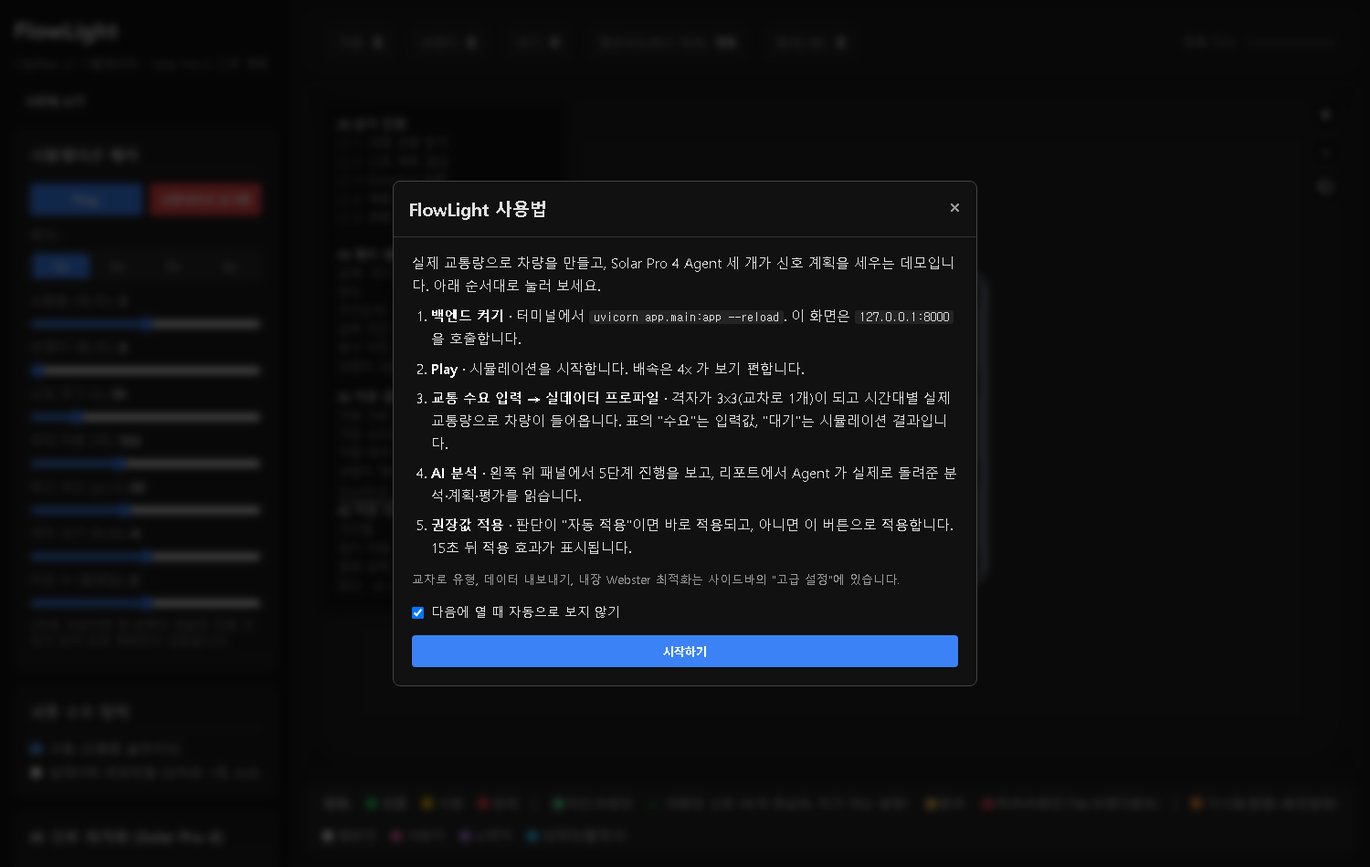
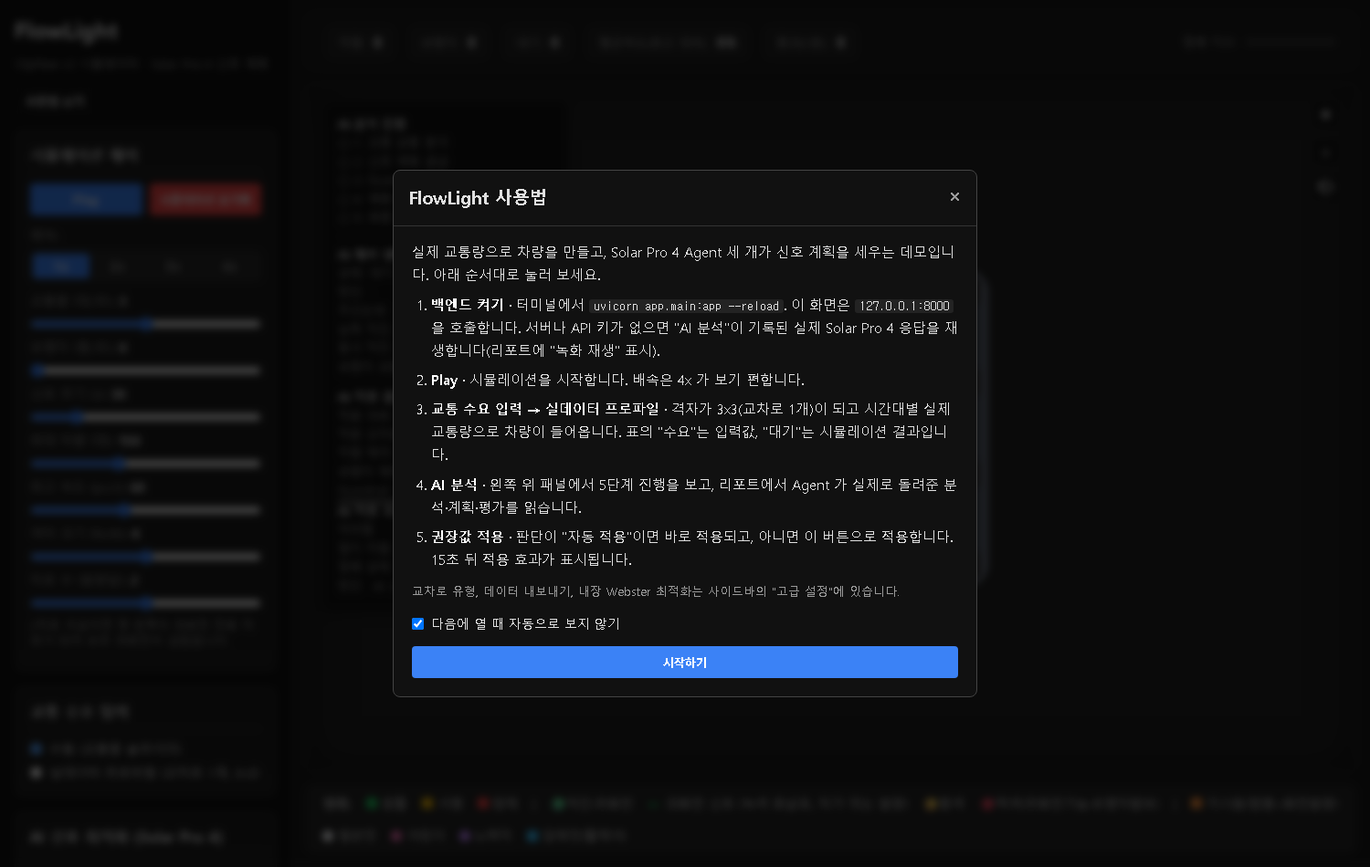
시간대 변경 시 AI 자동 재분석, 문서 문장 정리
시뮬레이터
- "시간대가 바뀌면 AI 재분석" 체크박스 (기본 꺼짐). 실데이터 프로파일의 시간대가 바뀌고
  20초 뒤 AI 분석을 한 번 다시 부른다. 실제 교차로의 시간대별 신호 계획과 같은 방식.
- 분석이 진행 중이면 겹쳐 부르지 않는다 (aiBusy).
- 자동 호출은 리포트 창과 적용 알림을 띄우지 않고, 서버가 없으면 녹화 재생 없이 건너뛴다.
- 다시 적용하면 이전 효과 측정 타이머를 멈춘다.
- tests/test_hourly_reanalysis.py (239 passed, 1 skipped).
- 실제 호출 2회로 확인: 08시 → 03시 → 08시, 두 번 모두 14/16/0 자동 적용, 창·알림 없음.
  03시로 바꾼 직후 20초는 이전 시간대 차량이 남아 같은 계획이 나왔고, 문서에 그대로 적었다.

문서
- README ko/en: 재분석 기능, LLM 을 부르는 시점, 검증 기록, 한계, 향후 계획 갱신.
- 반복되는 상투 문장과 굵은 결론 문장 정리, Lessons Learned 다시 씀, 영문·숫자 뒤 조사 붙임.
- 수요 입력 패널 캡처 갱신 (새 체크박스).

diff --git a/app/index.html b/app/index.html
@@ -282,6 +282,10 @@ input[type="range"]:disabled { opacity: 0.35; }
                     <label class="toggle-label mt-2">
                         <input type="checkbox" id="chk-demand-autohour"> <span>시간대 자동 진행 (<span id="val-demand-secs">120</span>초마다)</span>
                     </label>
+                    <label class="toggle-label mt-2">
+                        <input type="checkbox" id="chk-hour-reanalyze"> <span>시간대가 바뀌면 AI 재분석</span>
+                    </label>
+                    <div class="hint">실제 교차로가 출근·낮·퇴근 시간대별 계획을 쓰듯, 시간대가 바뀌고 20초 뒤 AI 분석을 한 번 다시 부릅니다. 켜면 Solar 호출이 시간대마다 1번 늘어납니다.</div>
                     <div class="slider-group mt-2">
                         <label>혼잡 배율 (데모용): ×<span id="val-demand-scale">1</span></label>
                         <input type="range" id="sim-demand-scale" min="1" max="5" step="1" value="1">
@@ -2393,6 +2397,11 @@ function SimController() {
     this.approachEdges = null;    // {N:[edge], S:[edge], E:[edge], W:[edge]}
     this.demandSpawn = {};        // 접근로별 발생률·다음 도착 시각·진입/손실 카운터
     this.autoHour = false;
+    // 시간대가 바뀌면 AI 재분석 (기본 꺼짐). 새 수요가 도로에 반영되도록 바뀐 뒤 reanalyzeSettle 초 기다렸다가 한 번 부른다.
+    this.autoReanalyze = false;
+    this.reanalyzeSettle = 20;
+    this.reanalyzeAt = null;
+    this.aiBusy = false;
     this.demoScale = 1;           // 실데이터 모드 혼잡 배율 (데모용). 방향별 비율은 데이터 그대로, 크기만 곱한다.
     this.secsPerHour = 120;       // 시간대 자동 진행 시 시간대 하나가 지속되는 시뮬레이션 초
     this.hourAcc = 0;
@@ -2518,6 +2527,8 @@ SimController.prototype._initDOM = function() {
         self.hourAcc = 0;
     };
     autoHourChk.onchange = function() { self.autoHour = autoHourChk.checked; self.hourAcc = 0; };
+    var reanalyzeChk = document.getElementById('chk-hour-reanalyze');
+    reanalyzeChk.onchange = function() { self.autoReanalyze = reanalyzeChk.checked; self.reanalyzeAt = null; };
     var scaleSlider = document.getElementById('sim-demand-scale');
     scaleSlider.oninput = function() {
         self.demoScale = parseInt(scaleSlider.value, 10) || 1;
@@ -2636,10 +2647,23 @@ SimController.prototype._initDOM = function() {
     }
     function yesNo(v) { return v === true ? '있음' : v === false ? '없음' : String(v); }
 
-    btnOpt.onclick = async function() {
+    // opts.auto: 시간대 변경에 따른 자동 재분석. 리포트 창과 적용 알림을 띄우지 않고, 서버가 없으면 녹화 재생 없이 건너뛴다.
+    async function runAIAnalysis(opts) {
+        opts = opts || {};
+        if (self.aiBusy) return;   // 분석이 진행 중이면 새 요청을 겹치지 않는다
+        if (opts.auto && document.getElementById('chk-replay') && document.getElementById('chk-replay').checked) return;
+        self.aiBusy = true;
+        try { await analyzeOnce(opts); } finally { self.aiBusy = false; }
+    }
+    self.runAIAnalysis = runAIAnalysis;
+    btnOpt.onclick = function() { runAIAnalysis(); };
+
+    async function analyzeOnce(opts) {
         var lt = document.getElementById('log-text');
         lt.textContent = 'AI 에이전트 분석을 시작합니다...\n\n';
-        document.getElementById('log-overlay').classList.remove('hidden');
+        if (opts.reason) lt.textContent += '[자동 재분석] ' + opts.reason + '\n\n';
+        if (!opts.auto) document.getElementById('log-overlay').classList.remove('hidden');
+        self.quietApply = !!opts.auto;
 
         // 진행 표시 초기화. 단계별 소요 시간은 SSE 메시지 도착 시각 기준이다.
         resetAISteps();
@@ -2788,7 +2812,7 @@ SimController.prototype._initDOM = function() {
                     });
                 } catch (netErr) {
                     // 서버가 없을 때: 녹화가 있으면 재생으로 넘어가고, 없으면 예전처럼 연결 실패로 처리한다.
-                    if (!replayRec) throw netErr;
+                    if (!replayRec || opts.auto) throw netErr;   // 자동 재분석은 녹화를 반복 재생하지 않는다
                     lt.textContent += "[안내] FastAPI 서버에 연결할 수 없어 녹화된 응답을 재생합니다.\n";
                 }
             }
@@ -3001,9 +3025,13 @@ SimController.prototype._initDOM = function() {
             document.getElementById('ai-state').textContent = "서버 연결 실패";
             lt.textContent += "\n[오류] FastAPI 서버 연결 실패\n";
             lt.textContent += err.message;
-            if (!window.FLOWLIGHT_REPLAY) lt.textContent += "\n(서버 없이 보려면 app/replay_data.js 가 index.html 옆에 있어야 합니다.)";
+            if (opts.auto) {
+                document.getElementById('ai-state').textContent = "자동 재분석 건너뜀 (서버 연결 실패)";
+            } else if (!window.FLOWLIGHT_REPLAY) {
+                lt.textContent += "\n(서버 없이 보려면 app/replay_data.js 가 index.html 옆에 있어야 합니다.)";
+            }
         }
-    };
+    }
     document.getElementById('btn-close-log').onclick = function(){ document.getElementById('log-overlay').classList.add('hidden'); };
 
     // ===== 사용법 안내 (처음 열 때 한 번, 이후 "사용법 보기" 버튼) =====
@@ -3141,7 +3169,8 @@ SimController.prototype._initDOM = function() {
         var waveInfo = self._applyGreenWave();
 
         console.log("적용 교차로 수:", appliedCount);
-        alert("AI 권장안 적용 완료: " + appliedCount + "개 교차로");
+        if (!self.quietApply) alert("AI 권장안 적용 완료: " + appliedCount + "개 교차로");
+        self.quietApply = false;
 
         var banner = document.getElementById("ai-apply-banner");
         var bannerDetail = document.getElementById("ai-banner-detail");
@@ -3217,7 +3246,9 @@ SimController.prototype._initDOM = function() {
         var effectSampleCount = 0;
         var effectLastSimT = self.simTime;
 
-        var effectTimer = setInterval(function() {
+        // 다시 적용하면 이전 측정은 멈춘다 (자동 재분석으로 여러 번 적용될 때 타이머가 겹치지 않게)
+        if (self.effectTimer) clearInterval(self.effectTimer);
+        var effectTimer = self.effectTimer = setInterval(function() {
             if (self.simTime - effectLastSimT < 1) return;
             effectLastSimT += 1;
             var stoppedNow = 0;
@@ -3255,6 +3286,7 @@ SimController.prototype._initDOM = function() {
 
             if (effectSampleCount >= 15) {
                 clearInterval(effectTimer);
+                if (self.effectTimer === effectTimer) self.effectTimer = null;
 
                 var sumStopped = 0;
                 var sumCongestion = 0;
@@ -3449,6 +3481,11 @@ SimController.prototype._update = function(dt, skipUI) {
                 var hs = this.profile.available_hours;
                 this.applyProfileHour(hs[(hs.indexOf(this.profileHour) + 1) % hs.length]);
             }
+        }
+        if (!skipUI && this.autoReanalyze && this.reanalyzeAt !== null && this.simTime >= this.reanalyzeAt
+                && !this.aiBusy && this.runAIAnalysis) {
+            this.reanalyzeAt = null;
+            this.runAIAnalysis({auto: true, reason: '시간대가 ' + pad2(this.profileHour) + '시로 바뀌어 다시 분석합니다.'});
         }
     } else {
         // 수동: 네트워크 전체 발생률(슬라이더)을 누적해 무작위 진입로에 생성 (기존 방식)
@@ -3678,6 +3715,9 @@ SimController.prototype.applyProfileHour = function(hour) {
         if (this.profile.hours[i].hour === hour) { entry = this.profile.hours[i]; break; }
     }
     if (!entry) return;
+    // 시간대가 실제로 바뀌었고 자동 재분석이 켜져 있으면, 새 수요가 도로에 반영될 시간을 두고 재분석을 예약한다.
+    // 슬라이더를 끄는 동안 여러 번 바뀌어도 예약은 마지막 시각 하나만 남는다.
+    if (this.autoReanalyze && hour !== this.profileHour) this.reanalyzeAt = this.simTime + this.reanalyzeSettle;
     this.profileHour = hour;
     this.currentDemand = entry;
     for (var k = 0; k < APPROACH_KEYS.length; k++) {

diff --git a/tests/test_hourly_reanalysis.py b/tests/test_hourly_reanalysis.py
@@ -1,0 +1,39 @@
+"""
+시간대 변경 시 AI 자동 재분석의 화면 배선 검사 (브라우저 없이 index.html 을 문자열로 확인).
+
+실제 교차로가 시간대별 신호 계획을 쓰듯, 실데이터 프로파일의 시간대가 바뀌면 AI 분석을 한 번 다시 부른다.
+기본은 꺼져 있고, 켜도 분석이 겹치지 않으며, 자동 호출에서는 리포트 창·알림·녹화 재생을 쓰지 않는다.
+"""
+from pathlib import Path
+
+HTML = (Path(__file__).resolve().parent.parent / "app" / "index.html").read_text(encoding="utf-8")
+
+
+def test_checkbox_exists_and_is_off_by_default():
+    assert '<input type="checkbox" id="chk-hour-reanalyze">' in HTML
+    assert "this.autoReanalyze = false;" in HTML
+    assert "시간대가 바뀌면 AI 재분석" in HTML
+
+
+def test_hour_change_schedules_one_reanalysis_after_settle_time():
+    assert "this.reanalyzeSettle = 20;" in HTML
+    assert "if (this.autoReanalyze && hour !== this.profileHour) this.reanalyzeAt = this.simTime + this.reanalyzeSettle;" in HTML
+    # 예약 시각이 지나고 분석 중이 아닐 때만, A/B 검증(skipUI) 중에는 부르지 않는다
+    assert "if (!skipUI && this.autoReanalyze && this.reanalyzeAt !== null && this.simTime >= this.reanalyzeAt" in HTML
+    assert "this.runAIAnalysis({auto: true" in HTML
+
+
+def test_analyses_never_overlap():
+    assert "if (self.aiBusy) return;" in HTML
+    assert "try { await analyzeOnce(opts); } finally { self.aiBusy = false; }" in HTML
+
+
+def test_auto_run_is_quiet_and_does_not_replay_recordings():
+    assert "if (!opts.auto) document.getElementById('log-overlay').classList.remove('hidden');" in HTML
+    assert "if (!self.quietApply) alert(" in HTML
+    assert "if (!replayRec || opts.auto) throw netErr;" in HTML
+    assert "자동 재분석 건너뜀 (서버 연결 실패)" in HTML
+
+
+def test_reapplying_stops_the_previous_effect_timer():
+    assert "if (self.effectTimer) clearInterval(self.effectTimer);" in HTML

diff --git a/README.en.md b/README.en.md
@@ -83,10 +83,10 @@ The idea the project started from, "skip the pedestrian phase when nobody is at 
 | 🚗 Mean stopped vehicles | 26.3 | 22.5 | **22.0** | **−4.2 ± 2.2 (−16%)**, AI lower in all ten seeds |
 | ⏱ Mean wait | 15.8 s | 13.8 s | 14.0 s | −1.8 ± 2.0 s (−11%), AI shorter in seven seeds |
 
-- **Skipping the pedestrian phase when nobody is waiting clearly helps.** For throughput and stopped vehicles the interval excludes zero, and all ten seeds point the same way.
-- **Most of the gain comes from handing the pedestrian time back to vehicles.** Fixed B also beat Fixed A by +11.8 ± 5.7 in throughput and −3.7 ± 1.4 in stopped vehicles.
-- **The LLM's re-split between the two axes adds little.** AI versus Fixed B is +2.9 ± 5.4 in throughput (AI higher in seven seeds), which cannot be told apart from noise.
-- In this demo the AI reads "nobody is at the crosswalk" from the state, picks 0 s and writes down why; the Guardrail raises the value back to 6 s (10 s for vulnerable users) whenever pedestrians are present. A simple rule on pedestrian presence could make the same call, and we say so.
+- Skipping the pedestrian phase when nobody is waiting makes a clear difference. For throughput and stopped vehicles the interval excludes zero, and all ten seeds point the same way.
+- Most of that difference is the pedestrian time handed back to vehicles. Fixed B also beat Fixed A by +11.8 ± 5.7 in throughput and −3.7 ± 1.4 in stopped vehicles.
+- The LLM's re-split between the two axes adds little. AI versus Fixed B is +2.9 ± 5.4 in throughput (AI higher in seven seeds), which cannot be told apart from noise.
+- In this demo the AI reads "nobody is at the crosswalk" from the state, picks 0 s and writes down why; the Guardrail raises the value back to 6 s (10 s for vulnerable users) whenever pedestrians are present. A simple rule that only checks whether anyone is waiting could make the same call.
 - Setup: real-data profile at 08:00, lanes as in the data, multiplier ×3, cycle 30 s, no pedestrian spawning, seeds 20260702 to 20260711, 120 s warm-up, then 90 s from the identical state under each signal. Fixed A and B go through the app's own apply path (70 % through / 30 % left) with actuation off. Intervals are paired t intervals over seeds (9 degrees of freedom). The congestion index sat around 0.96 for all three at this load, so it is left out of the table.
 - The plans are applied the way a real signal system would: each direction's green is split 70 % through / 30 % left to keep the four-phase cycle (with two or more lanes the left turn is protected, from a dedicated lane), and every cycle the left-turn and pedestrian phases are added or skipped from actual demand. The method matches the built-in A/B check under Advanced settings (same seed, fixed 1/30 s step, same warm-up, then branch).
 
@@ -204,6 +204,8 @@ The AI plan (NS N s / EW M s / pedestrian P s) is a budget; the simulator runs i
   - Left turns: two or more cars waiting to turn left → a left-turn phase is added; if the lead car is a left-turner blocking the lane, the arrow comes first (leading left). No left demand → no left phase.
 - **Pedestrian-only phase**: every vehicle stops and every crosswalk turns green. Right turns are barred while the pedestrian signal is green, and a right turn on red yields to pedestrians.
 
+- **When the LLM is called**: when you press "AI analysis", and, with "re-analyse when the hour changes" switched on, 20 s after the real-data profile moves to a new hour. This mirrors real intersections that switch between morning, midday and evening plans. Between those calls the per-cycle adjustments (pedestrian and left-turn phases) come from the actuated rules above, not from the LLM.
+
 Before a plan is applied, the default signal is a fixed timetable (four phases, the green left after amber and all-red split evenly between the two axes, pedestrian green alongside the cross-direction vehicle green).
 
 ## 📡 SSE streaming
@@ -222,6 +224,7 @@ Before a plan is applied, the default signal is a fixed timetable (four phases, 
 - **Demand input modes**
   - Manual: a network-wide veh/s slider spawns cars at random entry edges
   - Real-data profile: 3x3 grid, Poisson arrivals on the N/S/E/W entry edges from the backend profile, lane counts from the data (3 north-south, 2 east-west), hour picker with auto advance, and a per-approach table of demand, arrival rate, entered, lost and queued vehicles
+  - Re-analyse when the hour changes (off by default): 20 s after the hour changes the AI analysis runs once more and the plan is replaced. Runs never overlap, automatic runs open no report window or alert, and without a server they are skipped instead of replaying the recording.
   - Congestion multiplier (×1 to 5, demo only): real peak demand leaves a single intersection fairly quiet, so this slider scales the size of the demand while keeping the ratio between directions. Spawn rate = per-lane arrival rate × lanes × multiplier. It is sent to the agents as `demand.demo_scale` so they know it is a demo multiplier
 - The AI plan is applied with the four-phase cycle, a green wave and actuated phases (see above). The after-apply effect is averaged over 15 simulated seconds, so a higher speed multiplier shows it sooner
 - Five-step AI progress panel with per-step timing, the agents' real output, Guardrail before/after
@@ -257,6 +260,7 @@ Measured the same way on the previous version: waiting vehicles 18 → 13 (-27.8
 | Manual mode 4x4, cycle 30 s, 18 cars, 2 pedestrians at the crosswalk including an elderly person | Agent 1 flags a vulnerable user, plan 12/8/10 ("one vulnerable pedestrian, so 10 s for crossing speed"), no Guardrail correction, score 82, operator approval → 10 s pedestrian-only phase after applying |
 | Run from the profile-mode UI, multiplier ×1, 11 cars, 7 stopped, W saturation 1.14 (the current report and applied screenshots, 09-17) | main direction "W", plan 10/20/0 (reason: saturation sum 1.14 north-south vs 1.71 east-west), no Guardrail correction, score 88, auto apply → 15 s mean throughput 31 → 48 veh/min, congestion index 1.00 → 0.88, stopped 7 → 7 |
 | Same setup, seed 20260702, the call made for the before/after GIFs (09-17) | main direction "east-west", plan 10/20/0, no Guardrail correction, score 88, auto apply → against a fixed signal with an 8 s pedestrian phase, 90 s throughput 138 → 156, stopped 25.2 → 19.1 |
+| Profile mode, multiplier ×3, "re-analyse when the hour changes" on, 08:00 → 03:00 → 08:00 (09-17) | two automatic analyses 20 s after each change, both 14/16/0 and auto apply, no report window or alert. For 20 s after switching to 03:00 the road still held cars from 08:00, so the plan came out the same. With the backend unreachable the run was shown as skipped, with no replay |
 | Profile mode 08:00, multiplier ×3, no pedestrians, ten seeds (09-17) | pedestrian 0 s and auto apply in all ten calls, plans from 8/22 to 18/12 depending on the seed → against a fixed signal with an 8 s pedestrian phase, 90 s throughput +14.7 ± 7.2, stopped −4.2 ± 2.2 (section "An intersection with no pedestrians" above) |
 | Profile mode 08:00, lanes from the data, multiplier ×3, 35 cars, 30 stopped (the split state of the "similar demand" comparison, 09-17) | main direction "east-west" (saturation E 2.86 · W 2.29), plan 12/18/0, no Guardrail correction, score 88, auto apply → throughput 100 → 98 after 60 s, stopped 21.3 → 21.4. No difference from the fixed signal |
 
@@ -302,7 +306,7 @@ FlowLight-AI-Traffic-Signal
 │   ├── README.md                   # data source, column mapping, synthetic sample formula, replacement steps
 │   ├── sample_seoul_traffic_history.csv
 │   └── sample_seoul_traffic_history.meta.json
-├── tests                           # 235 tests (234 mocked + 1 live, live is opt-in)
+├── tests                           # 240 tests (239 mocked + 1 live, live is opt-in)
 ├── docs
 │   ├── screens/                    # UI screens (guide, main, profile mode, progress, report, applied, pedestrian phase, replay, advanced)
 │   ├── flowlight_banner.png, flowlight_live_demo.gif
@@ -361,7 +365,7 @@ Open `app/index.html` directly in a browser. It calls the backend at `http://127
 
 1. On first launch a five-step **usage guide** appears. Read it and press "Start". The sidebar button reopens it any time.
 2. Press **Play** to start the simulation. 4x speed is comfortable to watch.
-3. In **Traffic demand input** on the sidebar, choose *real-data profile*. The grid switches to 3x3 and cars are spawned from the per-approach demand of the selected hour (0 to 23). The default is the 08:00 peak. Lane counts follow the data: 3 north-south, 2 east-west. Real demand leaves the screen fairly quiet, so raise the **congestion multiplier** slider to about ×3 to see a busy intersection.
+3. In **Traffic demand input** on the sidebar, choose *real-data profile*. The grid switches to 3x3 and cars are spawned from the per-approach demand of the selected hour (0 to 23). The default is the 08:00 peak. Lane counts follow the data: 3 north-south, 2 east-west. Real demand leaves the screen fairly quiet, so raise the **congestion multiplier** slider to about ×3 to see a busy intersection. Switch on **re-analyse when the hour changes** and change the hour (or turn on auto advance) to have the plan rebuilt for every hour.
 4. Press **AI analysis**. The left panel shows the five steps as they run, and the report shows each agent's real output, the Guardrail correction and the evaluation reasoning.
 5. If the final decision is auto apply, the signals change on their own. Otherwise use **Apply recommended values**. After 15 simulated seconds the before/after effect is shown.
 6. To see the pedestrian side, raise the **pedestrians (per second)** slider to 1. Analyse while a child, an elderly person or a wheelchair user is waiting at a crosswalk: the pedestrian green comes back as 10 s or more, and after applying you see a pedestrian-only phase with every car stopped. With nobody waiting it comes back as 0 s and the phase disappears.
@@ -372,7 +376,7 @@ You can open `app/index.html` with no API key and no server. When **AI analysis*
 
 - The recording is the raw SSE event stream from one real call made in profile mode at 08:00, congestion multiplier ×3, after a 120 s warm-up. Nobody edited it. Plan 8 s north-south / 22 s east-west / 0 s pedestrian, score 82, auto apply.
 - The report title and the left panel are marked "녹화 재생" (recorded replay), and a note says the input state is the one from the recording. The plan is applied to the simulation you are looking at.
-- Step timings in the progress panel follow the recorded arrival times. No model is called, so the same response comes back whatever the screen shows.
+- Step timings in the progress panel follow the recorded arrival times. The model is not called again, so the same response comes back whatever the screen shows.
 - To record again, start the server and save the events of one real call in the same format. `tests/test_replay_data.py` checks the format.
 
 ---
@@ -431,7 +435,7 @@ This is what the frontend sends. The legacy fields alone are enough. `demand` an
 python -m pytest -q
 ```
 
-- The default run never calls the Solar API (the client is mocked). Currently 234 pass and 1 is skipped as live.
+- The default run never calls the Solar API (the client is mocked). Currently 239 pass and 1 is skipped as live.
 - The live API test is opt-in.
 
 ```bash
@@ -449,6 +453,7 @@ RUN_LIVE_TESTS=1 python -m pytest tests/test_agent_stream.py -v
 | `test_traffic_profile_api.py` | Profile endpoint |
 | `test_scenario_extension.py` | Extended input passing through the backend |
 | `test_replay_data.py` | Recorded replay: SSE order, plan and decision format, page wiring |
+| `test_hourly_reanalysis.py` | Hourly re-analysis: scheduling, no overlap, quiet automatic runs |
 
 ---
 
@@ -539,6 +544,7 @@ Problem statement, agent design, architecture, experiment results and retrospect
 - At most three lanes, and always exactly one left-turn lane. Cars choose the lane for their turn on entry and never change lanes mid-block, so through traffic does not move over even when the left-turn lane is empty. On single-lane roads a protected-only left (no left during the through green) gridlocks the grid, so those roads use protected-permissive left turns.
 - More lanes raise throughput but also raise queues and the congestion index, because every lane admits cars while intersection capacity is set by the signal.
 - Against a fixed signal without pedestrian time, the AI plan comes out about the same when demand is balanced (see "When demand on the two axes is similar"). In the ten-seed comparison the clear gain came from skipping the pedestrian phase when nobody was waiting, while re-splitting time between the two axes could not be told apart from noise.
+- Automatic re-analysis only reacts to hour changes. A big change in demand within the same hour keeps the old plan, and for 20 s after a change the road still holds cars from the previous hour, so the plan can come out similar.
 - When actuation makes cycle lengths differ between intersections, the green-wave offsets drift. Per-intersection plans are on the roadmap.
 - In manual mode, applying an AI plan still halves the spawn rate for 120 s as a relief measure. This is disabled in profile mode.
 - The sample data is a **synthetic example** that follows the column layout of the real dataset. Steps for swapping in real data are in `data/README.md`.
@@ -551,6 +557,7 @@ Problem statement, agent design, architecture, experiment results and retrospect
 | Area | Description |
 |------------------|-------------|
 | **Real Traffic Data** | Wire up a real public data file, turn ratios (`turn_ratio`) |
+| **Re-planning** | Re-analyse on other changes too, such as a sudden saturation jump or a vulnerable user arriving |
 | **Demo Packaging** | Serve the frontend statically to simplify setup |
 | **Signal Fidelity** | Apply pedestrian phases for real and align the displayed cycle |
 | **Roundabout Scenario** | Roundabout flow and priority rules |
@@ -598,13 +605,13 @@ I focused on **LLM agent design, backend integration, Guardrail verification, fr
 
 # 📝 Lessons learned
 
-Calling an LLM API turned out to be the easy part. The hard part was **evaluating and verifying the answer before letting it touch the service**.
+Calling the LLM API was the easy part. Checking the answer before it reached the signals took far more work.
 
-- Designing an LLM as an **agent-based decision structure** rather than a question-and-answer box.
-- Using prompt engineering and Structured Outputs so the model follows **a fixed input and output shape**.
-- Streaming the analysis and its result to the screen **in real time** with FastAPI and SSE.
-- Applying AI output **only after verification**, through the Guardrail and JSON validation.
-- Presenting results with numbers and video together made the project far more convincing.
+- Instead of one question and one answer, the decision is split across three agents: analysis, planning and evaluation.
+- Prompts and Structured Outputs fix the shape of what goes in and what comes out.
+- FastAPI and SSE stream each step of the analysis to the screen.
+- Only results that pass the Guardrail and JSON validation reach the signals.
+- Numbers and video together get the result across. The numbers, though, had to come from repeated runs rather than one good run.
 
 ---
 
